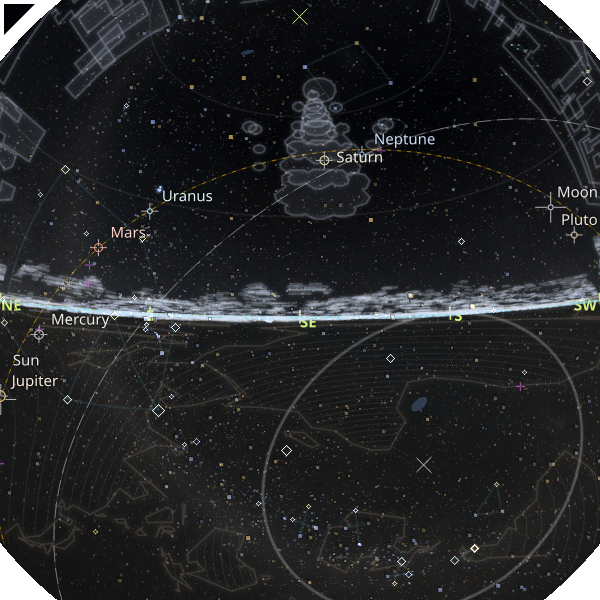
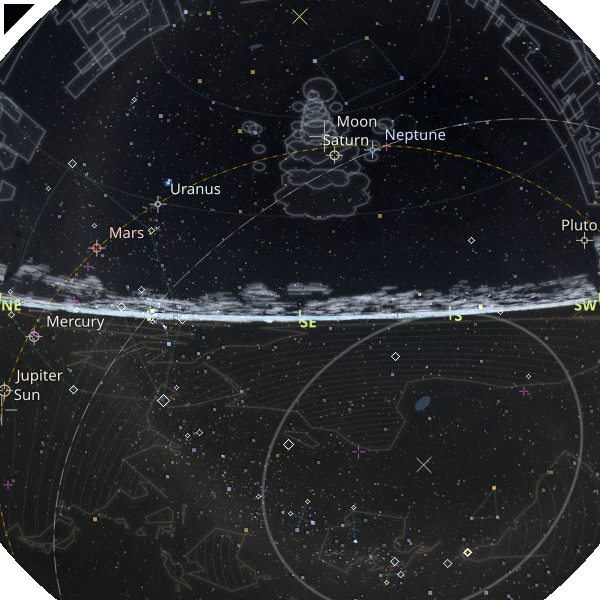
docs: update screenshot gallery guidance

diff --git a/README_ja-JP.md b/README_ja-JP.md
@@ -87,7 +87,7 @@
 <table>
   <tr>
     <td valign="top" width="33%"><img src="docs/images/screenshot4.png" alt="アトランタ空港と上空の混雑した空域、航空機の軌跡と昇らない領域" width="100%" /></td>
-    <td valign="top"><p>アトランタ空港とその上空の画面で、忙しい空域を飛ぶ10機以上の航空機が表示されています。航空機の軌跡は紫色のリボンで描かれ、地平線の下にある楕円は <em>never-rises</em>（昇らない領域）、つまり天球上で水平線より上に来ることがない領域を示しています。天の赤道と黄道は点線の基準線として表示されています。</p><p>天の赤道は、天の北極と天の南極を結ぶ地軸を法線とする大円です。never-rises の境界は、同じ地軸を中心軸とする小円です。</p></td>
+    <td valign="top"><p>アトランタ空港とその上空の画面で、忙しい空域を飛ぶ10機以上の航空機が表示されています。航空機の軌跡は紫色のリボンで描かれ、地平線の下にある楕円は <em>never-rises</em>（昇らない領域）、つまり天球上で水平線より上に来ることがない領域を示しています。天の赤道と黄道は点線の基準線として表示されています。</p><p>天の赤道は、天の北極と天の南極を結ぶ地軸を法線とする大円です。never-rises の境界は、同じ地軸を中心軸とする小円です。</p><p>注意: 航空機をリボンとして表示するには、CLI では <code>-a 0.4</code> などを指定してください。<code>zstarview-gui</code> では、起動時のダイアログの <code>Overlays</code> タブで <code>Aircraft opacity</code> を 0.4 などに設定してください。</p></td>
   </tr>
 </table>
 
@@ -145,40 +145,42 @@
     <td align="center"><sub>出雲大社（島根）</sub></td>
   </tr>
   <tr>
+    <td align="center"><img src="docs/images/screenshot-taipei.png" alt="台北101（台湾）" width="100%" /></td>
     <td align="center"><img src="docs/images/screenshot-marinabay.png" alt="マリーナベイ（シンガポール）" width="100%" /></td>
     <td align="center"><img src="docs/images/screenshot-burjkhalifa-nc.png" alt="ブルジュ・ハリファ付近（ドバイ）" width="100%" /></td>
     <td align="center"><img src="docs/images/screenshot-manarola.png" alt="マナローラ（イタリア）" width="100%" /></td>
-    <td align="center"><img src="docs/images/screenshot-jungfraujoch.png" alt="ユングフラウヨッホ（Jungfraujoch, スイス）" width="100%" /></td>
   </tr>
   <tr>
+    <td align="center"><sub>台北101（台湾）</sub></td>
     <td align="center"><sub>マリーナベイ（シンガポール）</sub></td>
     <td align="center"><sub>ブルジュ・ハリファ付近（ドバイ）</sub></td>
     <td align="center"><sub>マナローラ（イタリア）</sub></td>
-    <td align="center"><sub>ユングフラウヨッホ（Jungfraujoch, スイス）</sub></td>
   </tr>
   <tr>
+    <td align="center"><img src="docs/images/screenshot-jungfraujoch.png" alt="ユングフラウヨッホ（Jungfraujoch、スイス）" width="100%" /></td>
     <td align="center"><img src="docs/images/screenshot-sagradafamilia.png" alt="サグラダファミリア（バルセロナ）" width="100%" /></td>
     <td align="center"><img src="docs/images/screenshot-westminsterbridge.png" alt="ウェストミンスター橋（ロンドン）" width="100%" /></td>
     <td align="center"><img src="docs/images/screenshot-uyuni.png" alt="ユウニ塩湖の別の画像（ボリビア）" width="100%" /></td>
-    <td align="center"><img src="docs/images/screenshot-wizardisland.png" alt="ウィザード島（オレゴン）" width="100%" /></td>
   </tr>
   <tr>
+    <td align="center"><sub>ユングフラウヨッホ（Jungfraujoch、スイス）</sub></td>
     <td align="center"><sub>サグラダファミリア（バルセロナ）</sub></td>
     <td align="center"><sub>ウェストミンスター橋（ロンドン）</sub></td>
     <td align="center"><sub>ユウニ塩湖の別の画像（ボリビア）</sub></td>
-    <td align="center"><sub>ウィザード島（オレゴン）</sub></td>
   </tr>
   <tr>
+    <td align="center"><img src="docs/images/screenshot-wizardisland.png" alt="ウィザード島（オレゴン）" width="100%" /></td>
     <td align="center"><img src="docs/images/screenshot-bliss.png" alt="Bliss の丘（カリフォルニア）" width="100%" /></td>
-    <td colspan="3"></td>
+    <td colspan="2"></td>
   </tr>
   <tr>
+    <td align="center"><sub>ウィザード島（オレゴン）</sub></td>
     <td align="center"><sub>Bliss の丘（カリフォルニア）</sub></td>
-    <td colspan="3"></td>
+    <td colspan="2"></td>
   </tr>
 </table>
 
-注記: 以下のスクリーンショットでは、インストールのセクションでオプションとしている「海岸線データ」「都市アウトラインデータ」「AKARI IR bands データ」を有効にしています。一部では PLATEAU データを使用しています。詳細は
+注記: 一部のスクリーンショットでは PLATEAU データを使用しています。詳細は
 [PLATEAU 建物データの準備](#plateau-building-data-preparation) を参照してください。
 </details>
 

diff --git a/README.md b/README.md
@@ -89,7 +89,7 @@ Locations can be set by city or viewpoint name, direct coordinates, online place
 <table>
   <tr>
     <td valign="top" width="33%"><img src="docs/images/screenshot4.png" alt="Atlanta airport and busy airspace with aircraft trails and the never-rises region" width="100%" /></td>
-    <td valign="top"><p>This view shows Atlanta airport and the busy airspace above it, with more than ten aircraft visible. Aircraft trails are rendered as purple ribbons, and the ellipse below the horizon marks the <em>never-rises</em> region: the part of the celestial sphere that never comes above the horizon. The celestial equator and ecliptic are shown as dashed reference lines.</p><p>The celestial equator is a great circle whose normal axis is the Earth's rotation axis, the line connecting the north and south celestial poles. The never-rises boundary is a smaller circle around the same axis.</p></td>
+    <td valign="top"><p>This view shows Atlanta airport and the busy airspace above it, with more than ten aircraft visible. Aircraft trails are rendered as purple ribbons, and the ellipse below the horizon marks the <em>never-rises</em> region: the part of the celestial sphere that never comes above the horizon. The celestial equator and ecliptic are shown as dashed reference lines.</p><p>The celestial equator is a great circle whose normal axis is the Earth's rotation axis, the line connecting the north and south celestial poles. The never-rises boundary is a smaller circle around the same axis.</p><p>Note: To display aircraft as ribbons, specify <code>-a 0.4</code> or another opacity value in the CLI. In <code>zstarview-gui</code>, set <code>Aircraft opacity</code> to 0.4 or another value in the <code>Overlays</code> tab of the startup dialog.</p></td>
   </tr>
 </table>
 
@@ -147,36 +147,38 @@ These screenshots show urban outline and terrain horizon examples from several p
     <td align="center"><sub>Izumo Taisha, Japan</sub></td>
   </tr>
   <tr>
+    <td align="center"><img src="docs/images/screenshot-taipei.png" alt="Taipei 101, Taiwan" width="100%" /></td>
     <td align="center"><img src="docs/images/screenshot-marinabay.png" alt="Marina Bay, Singapore" width="100%" /></td>
     <td align="center"><img src="docs/images/screenshot-burjkhalifa-nc.png" alt="Near Burj Khalifa, Dubai" width="100%" /></td>
     <td align="center"><img src="docs/images/screenshot-manarola.png" alt="Manarola, Italy" width="100%" /></td>
-    <td align="center"><img src="docs/images/screenshot-jungfraujoch.png" alt="Jungfraujoch, Switzerland" width="100%" /></td>
   </tr>
   <tr>
+    <td align="center"><sub>Taipei 101, Taiwan</sub></td>
     <td align="center"><sub>Marina Bay, Singapore</sub></td>
     <td align="center"><sub>Near Burj Khalifa, Dubai</sub></td>
     <td align="center"><sub>Manarola, Italy</sub></td>
-    <td align="center"><sub>Jungfraujoch, Switzerland</sub></td>
   </tr>
   <tr>
+    <td align="center"><img src="docs/images/screenshot-jungfraujoch.png" alt="Jungfraujoch, Switzerland" width="100%" /></td>
     <td align="center"><img src="docs/images/screenshot-sagradafamilia.png" alt="Sagrada Familia, Barcelona" width="100%" /></td>
     <td align="center"><img src="docs/images/screenshot-westminsterbridge.png" alt="Westminster Bridge, London" width="100%" /></td>
     <td align="center"><img src="docs/images/screenshot-uyuni.png" alt="Alternate view of Salar de Uyuni, Bolivia" width="100%" /></td>
-    <td align="center"><img src="docs/images/screenshot-wizardisland.png" alt="Wizard Island, Oregon" width="100%" /></td>
   </tr>
   <tr>
+    <td align="center"><sub>Jungfraujoch, Switzerland</sub></td>
     <td align="center"><sub>Sagrada Familia, Barcelona</sub></td>
     <td align="center"><sub>Westminster Bridge, London</sub></td>
     <td align="center"><sub>Alternate view of Salar de Uyuni, Bolivia</sub></td>
-    <td align="center"><sub>Wizard Island, Oregon</sub></td>
   </tr>
   <tr>
+    <td align="center"><img src="docs/images/screenshot-wizardisland.png" alt="Wizard Island, Oregon" width="100%" /></td>
     <td align="center"><img src="docs/images/screenshot-bliss.png" alt="Bliss hill, California" width="100%" /></td>
-    <td colspan="3"></td>
+    <td colspan="2"></td>
   </tr>
   <tr>
+    <td align="center"><sub>Wizard Island, Oregon</sub></td>
     <td align="center"><sub>Bliss hill, California</sub></td>
-    <td colspan="3"></td>
+    <td colspan="2"></td>
   </tr>
 </table>
 

diff --git a/dev-notes/session-2026-08-05.md b/dev-notes/session-2026-08-05.md
@@ -102,3 +102,27 @@ Scope: Review AKARI IR bands contrast and gamma treatment.
 - Topic: Patch release after PyPI packaging correction
   - Decision: Bump the package from `1.44.0` to `1.44.1` and document the sdist-size correction as a patch release.
   - Rationale: The change affects packaging rather than application behavior, so a patch-level release is appropriate.
+
+- Topic: Add the latest screenshot gallery layout to the Japanese README
+  - Decision: Add the Taipei 101 screenshot and shift the following gallery entries to match the English README's four-column layout, preserving Japanese alt text and captions.
+  - Rationale: Keep the two localized README galleries consistent while retaining Japanese user-facing descriptions.
+
+- Topic: Document aircraft opacity for screenshot4
+  - Decision: Add a Japanese README note explaining that aircraft ribbons require `-a 0.4` (or another positive opacity) in the CLI, or `Aircraft opacity` set in the `Overlays` tab of the `zstarview-gui` startup dialog.
+  - Rationale: Make the configuration needed to reproduce the aircraft overlay in screenshot4 explicit.
+
+- Topic: Order screenshot4 explanation paragraphs
+  - Decision: Place the aircraft-opacity note after the celestial-equator and never-rises explanation as the final paragraph.
+  - Rationale: Keep the description flow from scene explanation to geometric details, then finish with the reproduction setting.
+
+- Topic: Add aircraft opacity note to the English README
+  - Decision: Mirror the Japanese screenshot4 note in English, keeping it as the final paragraph of the explanation.
+  - Rationale: Give readers of both README versions the same instructions for enabling aircraft ribbons.
+
+- Topic: Add aircraft opacity note to the PyPI README
+  - Decision: Add the same screenshot4 configuration note before the screenshot image in `README_pypi.md`.
+  - Rationale: Keep the PyPI-facing README consistent with the full English and Japanese README files.
+
+- Topic: Align Japanese screenshot notes with the English README
+  - Decision: Keep the optional-data note at the start of the screen descriptions and reduce the gallery-end note to the PLATEAU-specific explanation, matching the English structure.
+  - Rationale: Avoid repeating the optional-data note and keep corresponding notes in the same locations in both language versions.

diff --git a/README_pypi.md b/README_pypi.md
@@ -26,6 +26,7 @@ It also supports small blue-dot water surfaces and an optional false-color AKARI
 
 <p>This view shows Atlanta airport and the busy airspace above it, with more than ten aircraft visible. Aircraft trails are rendered as purple ribbons, and the ellipse below the horizon marks the <em>never-rises</em> region: the part of the celestial sphere that never comes above the horizon. The celestial equator and ecliptic are shown as dashed reference lines.</p>
 <p>The celestial equator is a great circle whose normal axis is the Earth's rotation axis, the line connecting the north and south celestial poles. The never-rises boundary is a smaller circle around the same axis.</p>
+<p>Note: To display aircraft as ribbons, specify <code>-a 0.4</code> or another opacity value in the CLI. In <code>zstarview-gui</code>, set <code>Aircraft opacity</code> to 0.4 or another value in the <code>Overlays</code> tab of the startup dialog.</p>
 <p align="center"><img src="https://raw.githubusercontent.com/tos-kamiya/zstarview/main/docs/images/screenshot4.png" width="60%" alt="Atlanta airport and busy airspace with aircraft trails and the never-rises region"></p>
 
 <p>This view looks straight up from Salar de Uyuni, known as one of the flattest places in the world. The horizon forms an almost complete circle around the view because the difference in elevation along the horizon is very small. The <code>-V9</code> option displays stars down to visual magnitude 9, while <code>-s5</code> makes the stars slightly larger than the default so that the smaller stars stand out. <code>--akari-ir-bands 0.3</code> enhances the far-infrared dust map.</p>
